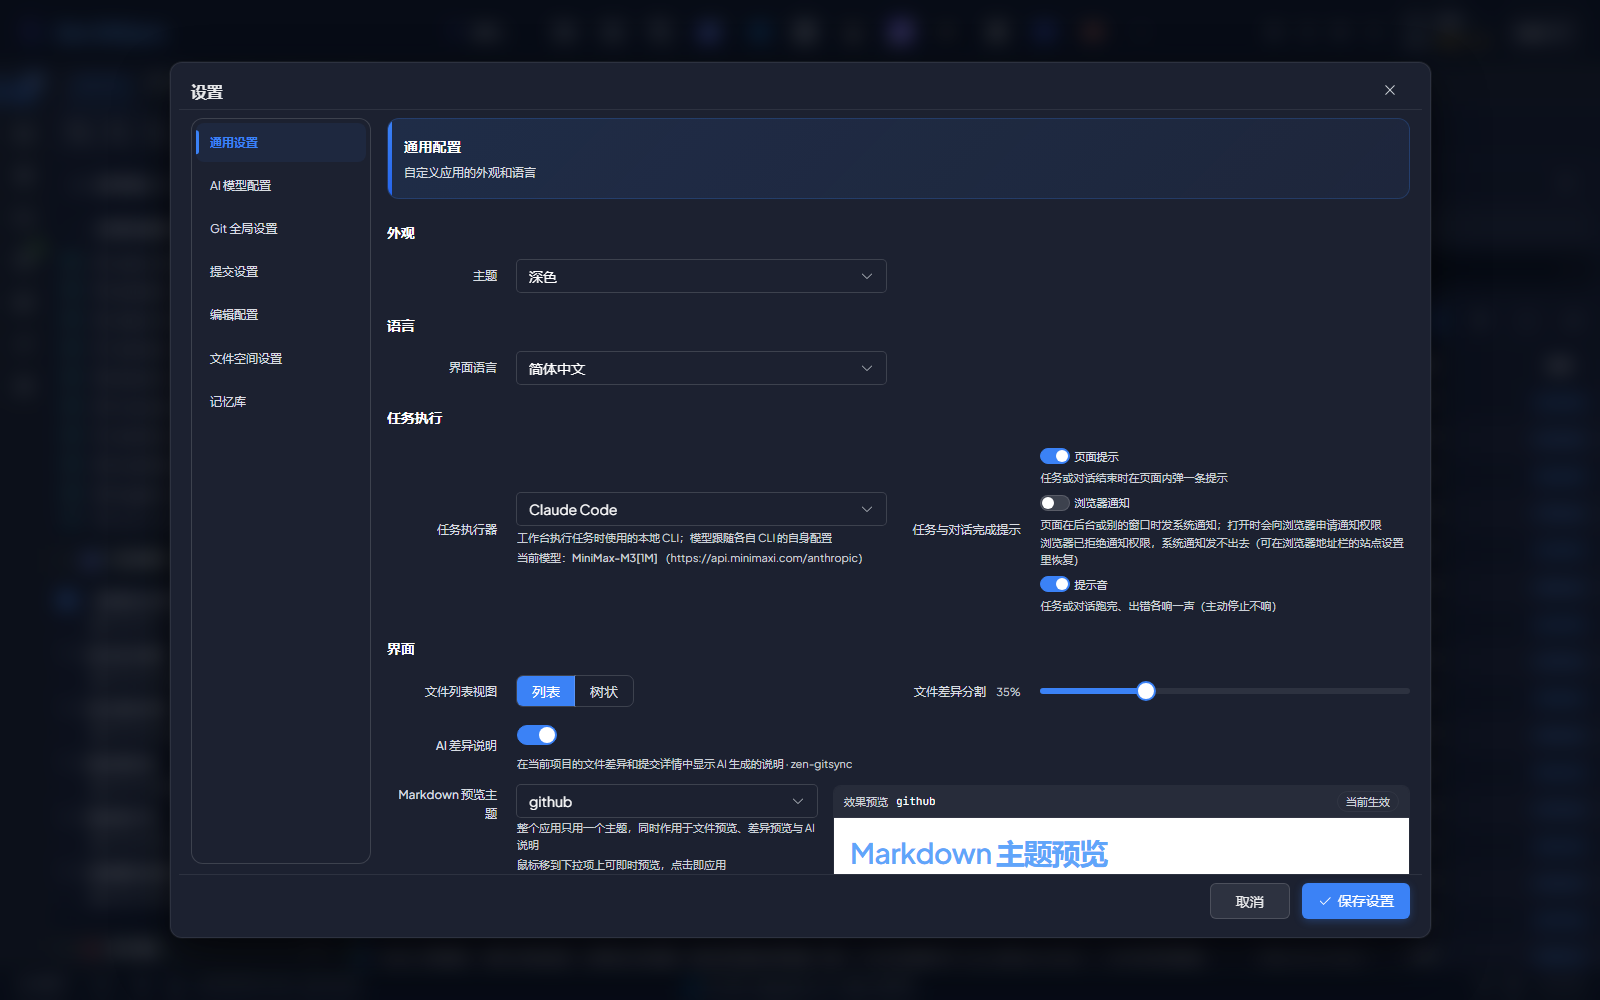
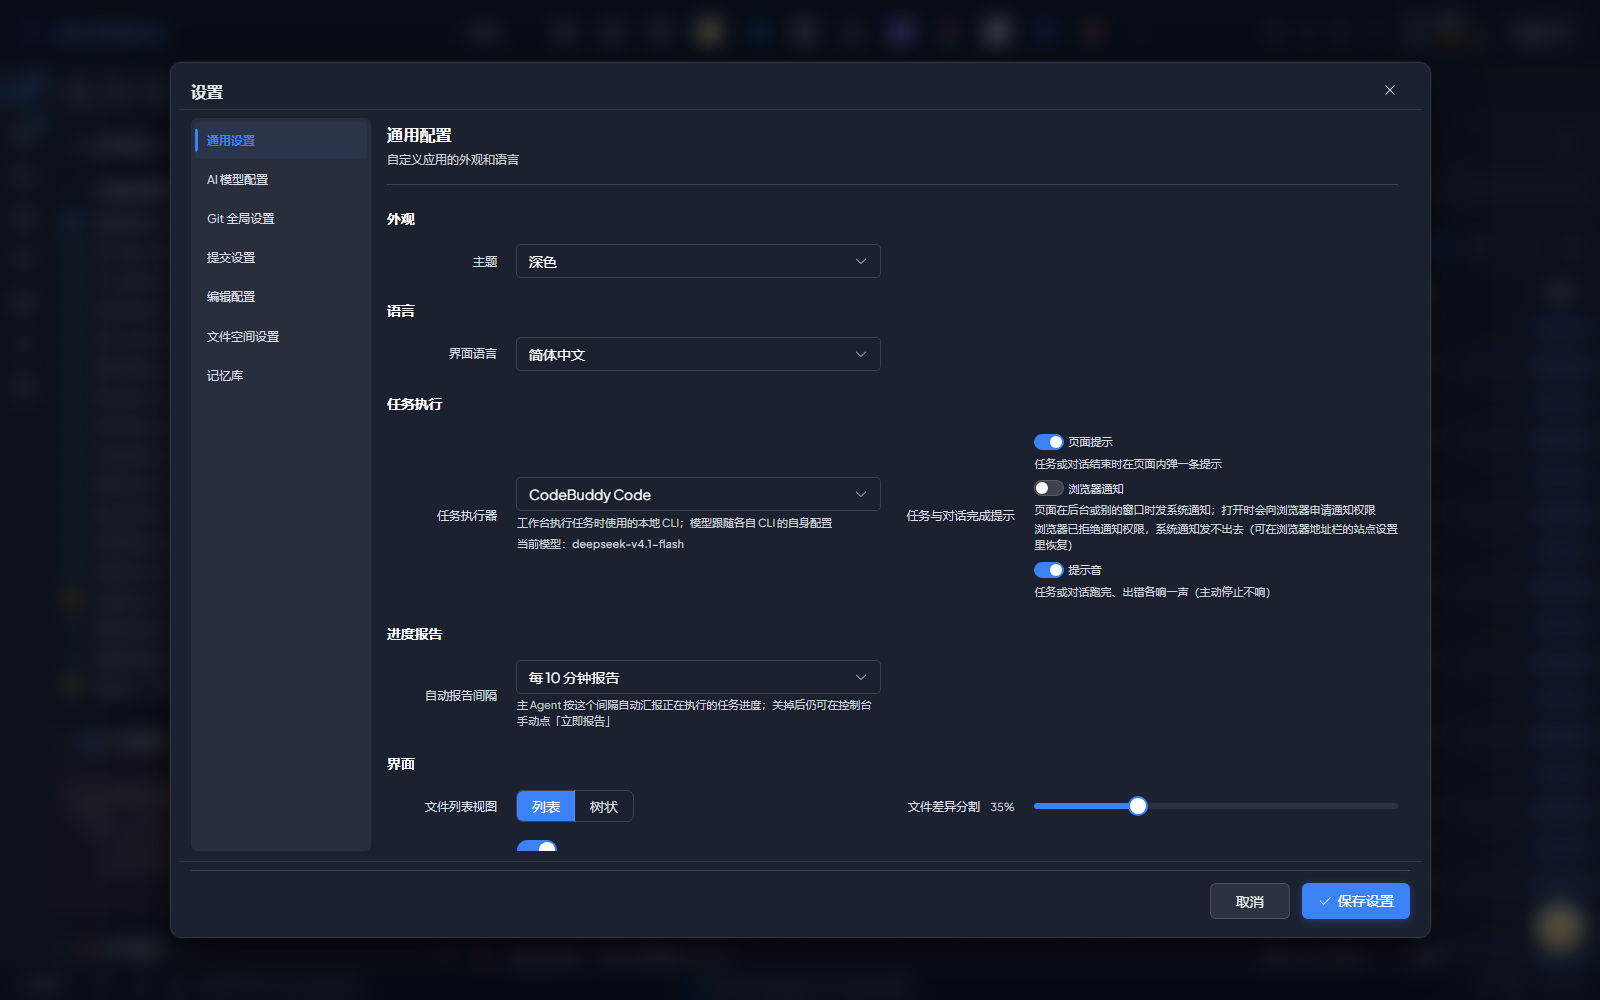
feat(website): 导航与页脚加「博客」外链，截图同步最新 UI
- SiteHeader / SiteFooter 增加博客外链（blog.flowdash.cn，docs 页同样可见）
- docs.js 执行器口径对齐 7 个 CLI
- public/shots 全部同步自重截后的 docs/screenshots

diff --git a/website/src/data/docs.js b/website/src/data/docs.js
@@ -208,7 +208,7 @@ export const DOCS = [
           { term: '进度报告', desc: '主 Agent 读每个在跑 job 的时长 / 思考 / 工具分布 / 静默情况,写汇报并给整体与单任务进度估计;按 5–60 分钟间隔自动生成,标签页关着也攒历史' },
           { term: '静默收尾', desc: '静默超 10 分钟让主 Agent 判断是否已完成:判完成则落终态并标「AI 判定完成」(带依据);判据不足就什么都不做,最多问 3 次' },
           { term: '手动标记完成', desc: '待处理 / 进行中卡片可手动标完成(进行中的会先确认并停掉那一轮),手动标的可一键撤销;标记记在任务上,再跑一轮即作废' },
-          { term: '执行器', desc: 'Claude Code / OpenCode / Codex,管道模式 detached 进程直连,输出流回 UI;续聊固定沿用初始执行器(--resume / --session / thread id)' },
+          { term: '执行器', desc: 'Claude Code / OpenCode / Codex / CodeBuddy Code / Pi / 华为云码道 / Qoder 七个 CLI,管道模式 detached 进程直连,输出流回 UI;续聊固定沿用初始执行器(各家续接参数互不通用)' },
           { term: '提示词预置', desc: '可复用模板,支持 {{task.title}} / {{task.desc}} / {{repo.path}} / {{branch}} 插值;AI 生成项目架构说明一键成稿' },
           { term: '跨轮记忆', desc: '每次派发告知智能体本机记忆库 ~/.zen-gitsync/memory/:只有索引进 prompt,正文按需读;收尾自检四问,该记的记一条' },
           { term: '结束提示', desc: '页面提示 / 浏览器通知 / 提示音三个独立开关;智能体提问时第三种音色,切窗也听得到' },

diff --git a/website/src/components/SiteFooter.vue b/website/src/components/SiteFooter.vue
@@ -20,6 +20,7 @@ const APP_VERSION = typeof __APP_VERSION__ === 'undefined' ? 'dev' : __APP_VERSI
           <span>GitHub</span>
         </a>
         <a :href="REPO.npm" target="_blank" rel="noreferrer"><span>npm</span></a>
+        <a :href="REPO.blog" target="_blank" rel="noreferrer"><span>博客</span></a>
         <a :href="REPO.issues" target="_blank" rel="noreferrer"><span>问题反馈</span></a>
       </nav>
     </div>

diff --git a/website/src/data/site.js b/website/src/data/site.js
@@ -8,7 +8,8 @@ export const REPO = {
   slug: 'xz333221/zen-gitsync',
   github: 'https://github.com/xz333221/zen-gitsync',
   npm: 'https://www.npmjs.com/package/zen-gitsync',
-  issues: 'https://github.com/xz333221/zen-gitsync/issues'
+  issues: 'https://github.com/xz333221/zen-gitsync/issues',
+  blog: 'https://blog.flowdash.cn/'
 }
 
 export const COMMANDS = {

diff --git a/website/src/components/SiteHeader.vue b/website/src/components/SiteHeader.vue
@@ -27,6 +27,7 @@ defineProps({
           <a href="#install">安装</a>
           <a href="./docs.html">文档</a>
         </template>
+        <a :href="REPO.blog" target="_blank" rel="noreferrer">博客</a>
       </nav>
 
       <div class="nav__actions">
